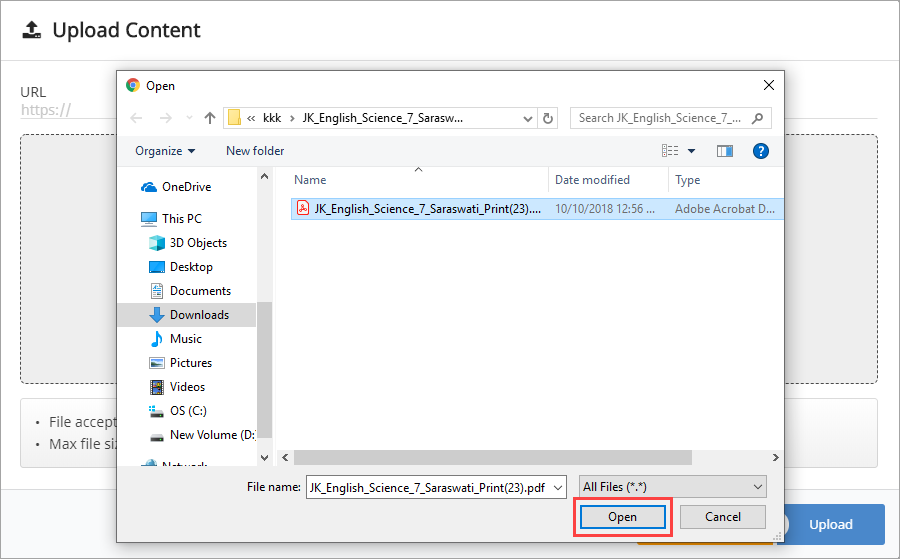
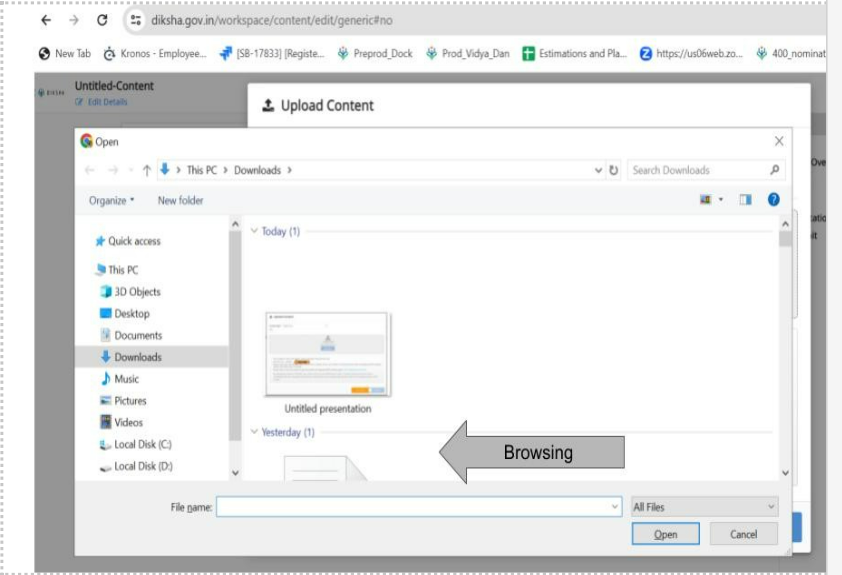
178864 - Added help center changes for upload content

diff --git a/help/creator/upload-content/content-upload.md b/help/creator/upload-content/content-upload.md
@@ -30,7 +30,7 @@ It supports maximum of 50 MB file size
  <tr>
     <td>1. Log in to DIKSHA portal using your content creator credential <br>2. Click <b>Create</b><br>3. Click <b>Upload Content</b>
        </td>
-      <td><img src="../images/upload/upload_workspace.png"></td>
+      <td><img src="../images/upload/upload_content.jpg"></td>
   </tr>
   </table>
 
